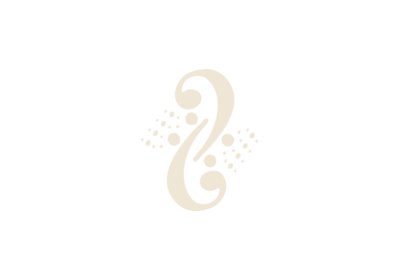
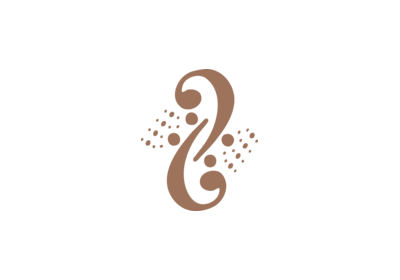
Add files via upload

Changed region(s): [[0.36, 0.2286, 0.66, 0.7714]]

diff --git a/parallax-20260923-v17.js b/parallax-20260923-v17.js
@@ -1,0 +1,110 @@
+const menuToggle = document.querySelector(".menu-toggle");
+const nav = document.querySelector(".site-nav");
+
+menuToggle?.addEventListener("click", () => {
+  const open = nav?.classList.toggle("open") ?? false;
+  menuToggle.setAttribute("aria-expanded", String(open));
+});
+
+document.querySelectorAll(".site-nav a").forEach(link => {
+  link.addEventListener("click", () => {
+    nav?.classList.remove("open");
+    menuToggle?.setAttribute("aria-expanded", "false");
+  });
+});
+
+const year = document.getElementById("year");
+if (year) year.textContent = new Date().getFullYear();
+
+const backgroundStack = document.querySelector(".background-layers");
+const parallaxLogo = document.querySelector(".parallax-logo");
+const logoScale = 1.15;
+let parallaxFrame = 0;
+let backgroundLogos = [];
+
+// Seeded pseudo-random generator: random-looking layout, stable between reloads.
+const mulberry32 = seed => () => {
+  let t = seed += 0x6D2B79F5;
+  t = Math.imul(t ^ t >>> 15, t | 1);
+  t ^= t + Math.imul(t ^ t >>> 7, t | 61);
+  return ((t ^ t >>> 14) >>> 0) / 4294967296;
+};
+
+const buildBackground = () => {
+  if (!backgroundStack) return;
+  const rand = mulberry32(88888888);
+  const pageHeight = Math.max(document.documentElement.scrollHeight, window.innerHeight);
+  backgroundStack.style.height = `${pageHeight}px`;
+  backgroundStack.replaceChildren();
+
+  // 64 logos on 64 separate layers. Size is randomly within -8% / +8%
+  // of the original small background-logo size. Opacity and scroll factor vary independently.
+  for (let i = 0; i < 64; i += 1) {
+    const layer = document.createElement("div");
+    layer.className = "background-layer";
+    layer.style.zIndex = String(i + 1);
+
+    const logo = document.createElement("span");
+    logo.className = "background-logo";
+    const x = 3 + rand() * 94;
+    const y = rand() * Math.max(window.innerHeight, pageHeight - 180);
+    const size = 0.92 + rand() * 0.16;        // -8% ... +8%
+    const opacity = 0.08 + rand() * 0.56;     // 8% ... 64%
+    const speed = 0.008 + rand() * 0.072;     // individual slow mouse/scroll factor
+    const direction = rand() < 0.18 ? -1 : 1;
+
+    logo.style.setProperty("--x", `${x.toFixed(3)}%`);
+    logo.style.setProperty("--y", `${y.toFixed(1)}px`);
+    logo.style.setProperty("--size", size.toFixed(4));
+    logo.style.setProperty("--opacity", opacity.toFixed(4));
+    logo.dataset.speed = String(speed * direction);
+    layer.appendChild(logo);
+    backgroundStack.appendChild(layer);
+  }
+  backgroundLogos = [...backgroundStack.querySelectorAll(".background-logo")];
+};
+
+const getLogoExitTravel = () => {
+  if (!parallaxLogo) return 0;
+  const styles = window.getComputedStyle(parallaxLogo);
+  const top = Number.parseFloat(styles.top) || 0;
+  const boxWidth = parallaxLogo.offsetWidth;
+  const boxHeight = parallaxLogo.offsetHeight;
+  const sourceWidth = 922;
+  const sourceHeight = 1368;
+  const visibleContentBottom = 1223;
+  const scale = Math.min(boxWidth / sourceWidth, boxHeight / sourceHeight);
+  const centeredOffsetY = (boxHeight - sourceHeight * scale) / 2;
+  const visibleBottom = centeredOffsetY + visibleContentBottom * scale;
+  const scaledVisibleBottom = boxHeight / 2 + (visibleBottom - boxHeight / 2) * logoScale;
+  return top + scaledVisibleBottom + 1;
+};
+
+const updateParallax = () => {
+  const scrollY = window.scrollY;
+  const scrollRange = Math.max(1, document.documentElement.scrollHeight - window.innerHeight);
+  const progress = Math.min(1, Math.max(0, scrollY / scrollRange));
+  const delayedLogoProgress = progress ** 6;
+  const rotationProgress = 0.5 - 0.5 * Math.cos(Math.PI * progress);
+
+  backgroundLogos.forEach(logo => {
+    const speed = Number.parseFloat(logo.dataset.speed || "0");
+    logo.style.setProperty("--parallax-y", `${(-scrollY * speed).toFixed(2)}px`);
+  });
+
+  document.documentElement.style.setProperty("--logo-shift", `${(-delayedLogoProgress * getLogoExitTravel()).toFixed(1)}px`);
+  document.documentElement.style.setProperty("--logo-rotation", `${(rotationProgress * 360).toFixed(2)}deg`);
+  parallaxFrame = 0;
+};
+
+const requestParallaxUpdate = () => {
+  if (!parallaxFrame) parallaxFrame = window.requestAnimationFrame(updateParallax);
+};
+
+buildBackground();
+updateParallax();
+window.addEventListener("scroll", requestParallaxUpdate, { passive: true });
+window.addEventListener("resize", () => {
+  buildBackground();
+  requestParallaxUpdate();
+}, { passive: true });

diff --git a/design-20260906-v5.css b/design-20260906-v5.css
@@ -49,71 +49,47 @@ body {
   font-size: 21px;
 }
 
-/* Eight independent logo layers; the complete planes move without rotation. */
+/* 64 independent background logos. Their positions, opacity, size and
+   scroll factors are generated deterministically in JS so the composition
+   looks random but does not jump around on every reload. */
 body::before {
   content: none !important;
   display: none !important;
 }
 
-.background-layers,
-.background-layer {
-  position: fixed;
-  inset: 0;
-  pointer-events: none;
-}
-
 .background-layers {
+  position: absolute;
   z-index: 0;
+  inset: 0 0 auto 0;
+  height: 100%;
+  min-height: 100vh;
+  pointer-events: none;
   overflow: hidden;
   background: var(--pearl-white);
 }
 
 .background-layer {
-  background-repeat: repeat;
-  background-size: clamp(260px, 25vw, 400px) auto;
-  mix-blend-mode: multiply;
-  opacity: .22;
-  will-change: background-position;
+  position: absolute;
+  left: 0;
+  top: 0;
+  width: 100%;
+  height: 100%;
+  pointer-events: none;
 }
 
-.background-layer-1 {
-  background-image: url("background-layer-1.png");
-  background-position: -80px calc(-40px + var(--background-shift-1));
-}
-
-.background-layer-2 {
-  background-image: url("background-layer-2.png");
-  background-position: -60px calc(-30px + var(--background-shift-2));
-}
-
-.background-layer-3 {
-  background-image: url("background-layer-3.png");
-  background-position: -40px calc(-20px + var(--background-shift-3));
-}
-
-.background-layer-4 {
-  background-image: url("background-layer-4.png");
-  background-position: -20px calc(-10px + var(--background-shift-4));
-}
-
-.background-layer-5 {
-  background-image: url("background-layer-5.png");
-  background-position: 0 calc(0px + var(--background-shift-5));
-}
-
-.background-layer-6 {
-  background-image: url("background-layer-6.png");
-  background-position: 20px calc(10px + var(--background-shift-6));
-}
-
-.background-layer-7 {
-  background-image: url("background-layer-7.png");
-  background-position: 40px calc(20px + var(--background-shift-7));
-}
-
-.background-layer-8 {
-  background-image: url("background-layer-8.png");
-  background-position: 60px calc(30px + var(--background-shift-8));
+.background-logo {
+  position: absolute;
+  left: var(--x);
+  top: var(--y);
+  width: calc(clamp(260px, 25vw, 400px) * var(--size));
+  aspect-ratio: 400 / 280;
+  background: var(--dark-gold);
+  -webkit-mask: url("background-layer-1.png") center / contain no-repeat;
+  mask: url("background-layer-1.png") center / contain no-repeat;
+  opacity: var(--opacity);
+  transform: translate3d(-50%, var(--parallax-y, 0px), 0);
+  transform-origin: center;
+  will-change: transform;
 }
 
 .site-shell::before {
@@ -739,4 +715,49 @@ textarea {
   .partner-slot:nth-child(n + 2) {
     border-top: 1px solid var(--dark-gold-line);
   }
+}
+
+/* 2026-09-18: unified Eight&Eight logo colour, 8% visibility + size progression. */
+.background-layer { mix-blend-mode: normal; }
+.background-layer-1 { opacity: .08; background-size: 240px auto; }
+.background-layer-2 { opacity: .16; background-size: 259.2px auto; }
+.background-layer-3 { opacity: .24; background-size: 278.4px auto; }
+.background-layer-4 { opacity: .32; background-size: 297.6px auto; }
+.background-layer-5 { opacity: .40; background-size: 316.8px auto; }
+.background-layer-6 { opacity: .48; background-size: 336px auto; }
+.background-layer-7 { opacity: .56; background-size: 355.2px auto; }
+.background-layer-8 { opacity: .64; background-size: 374.4px auto; }
+
+.parallax-logo { mix-blend-mode: normal; }
+
+/* Header wordmark: symbol and compressed text form one compact logo unit.
+   The symbol is scaled to the full height of the three menu strokes. */
+.wordmark {
+  height: 31px;
+  gap: 8px;
+  overflow: visible;
+}
+.wordmark-symbol {
+  display: block;
+  width: auto;
+  height: 31px;
+  object-fit: contain;
+  flex: 0 0 auto;
+}
+.wordmark-text {
+  display: inline-block;
+  white-space: nowrap;
+  color: var(--deep-taupe);
+  font-family: "Sitka Text", Sitka, Georgia, "Times New Roman", serif;
+  font-size: clamp(22px, 2.2vw, 32px);
+  font-weight: 400;
+  letter-spacing: -.025em;
+  line-height: 1;
+  transform: scaleY(.62);
+  transform-origin: center bottom;
+}
+
+@media (max-width: 900px) {
+  .wordmark { height: 31px; }
+  .wordmark-symbol { height: 31px; }
 }

diff --git a/index.html b/index.html
@@ -9,19 +9,10 @@
   <meta name="description" content="Eight&Eight. Strategy, concept development and structural thinking for brands, platforms, products and ideas">
   <title>Eight&Eight</title>
   <link rel="stylesheet" href="styles.css?v=20260905-3">
-  <link rel="stylesheet" href="design-20260906-v5.css?v=20260916-13">
+  <link rel="stylesheet" href="design-20260906-v5.css?v=20260923-64">
 </head>
 <body>
-  <div class="background-layers" aria-hidden="true">
-    <div class="background-layer background-layer-1"></div>
-    <div class="background-layer background-layer-2"></div>
-    <div class="background-layer background-layer-3"></div>
-    <div class="background-layer background-layer-4"></div>
-    <div class="background-layer background-layer-5"></div>
-    <div class="background-layer background-layer-6"></div>
-    <div class="background-layer background-layer-7"></div>
-    <div class="background-layer background-layer-8"></div>
-  </div>
+  <div class="background-layers" aria-hidden="true"></div>
   <div class="site-shell">
 
     <div class="parallax-logo" aria-hidden="true">
@@ -30,7 +21,7 @@
 
     <header class="topbar">
       <a class="wordmark" href="#top" aria-label="Eight and Eight home">
-        <span>Eight&amp;Eight</span>
+        <img class="wordmark-symbol" src="Eight&amp;Eight-logo.png" alt="" aria-hidden="true"><span class="wordmark-text">Eight&amp;Eight</span>
       </a>
       <button class="menu-toggle" aria-expanded="false" aria-controls="site-nav" aria-label="Open navigation">
         <span></span><span></span><span></span>
@@ -200,6 +191,6 @@
     <div class="wallpaper-end" aria-hidden="true"></div>
   </div>
 
-  <script src="parallax-20260916-v16.js"></script>
+  <script src="parallax-20260923-v17.js"></script>
 </body>
 </html>
